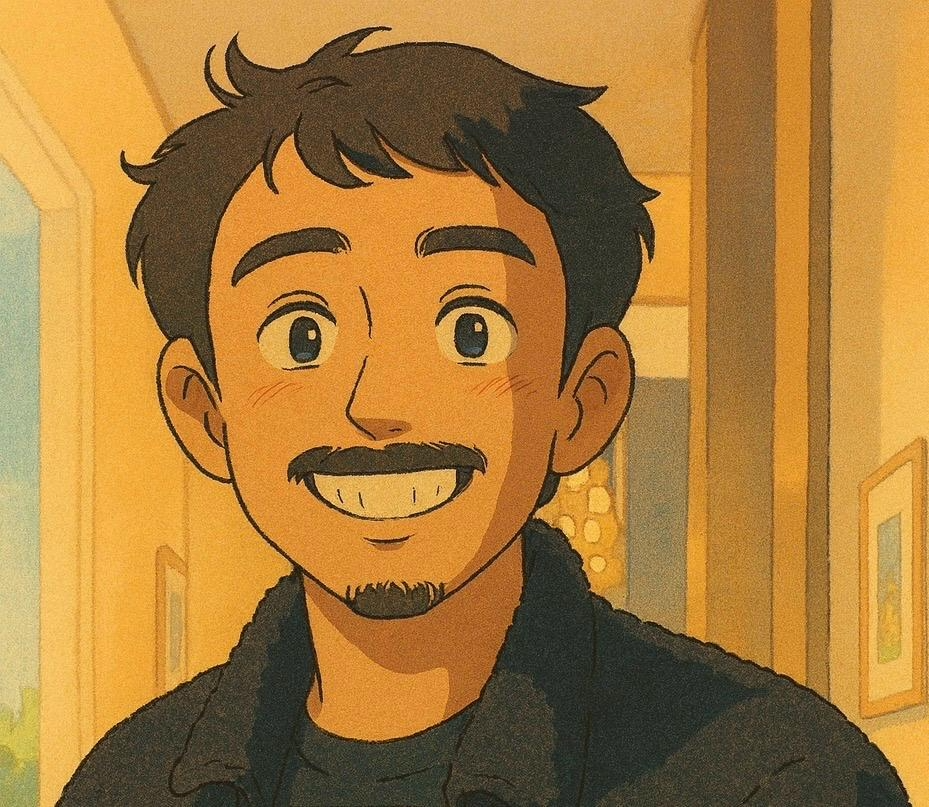
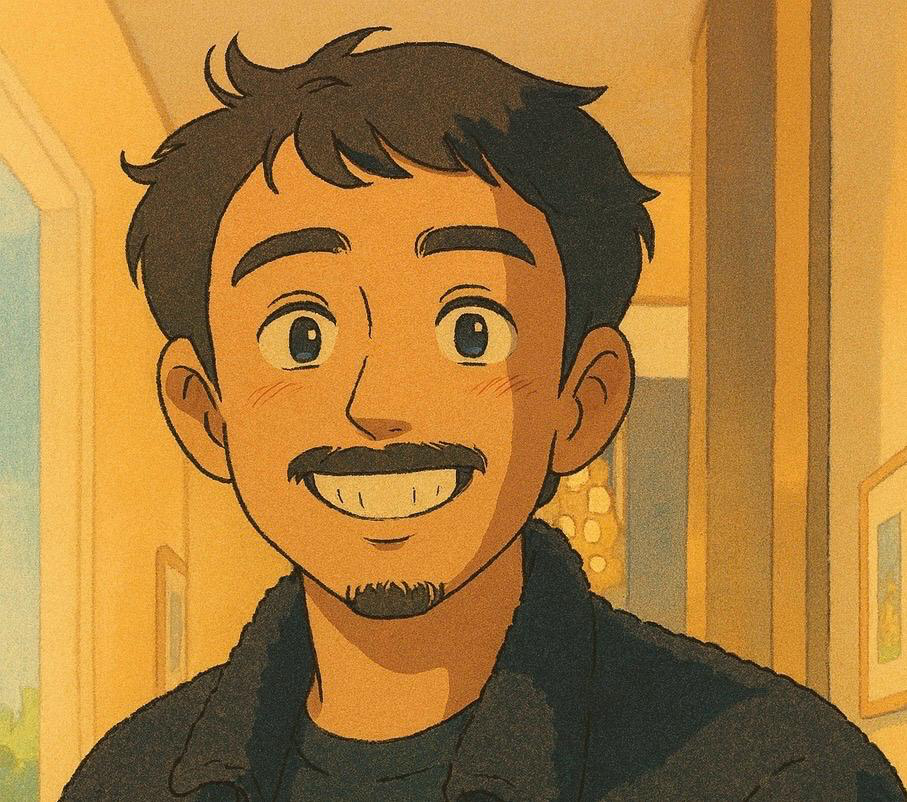
Update profile picture and css for the pic

diff --git a/src/static/css/layout/_intro.scss b/src/static/css/layout/_intro.scss
@@ -22,7 +22,7 @@
       // display: block;
       display: inline;
       margin: 0 auto;
-      margin-left: -9%; /* centers the image */
+      // margin-left: -3%; /* centers the image */
       height: 100%;
       width: auto;
     }
